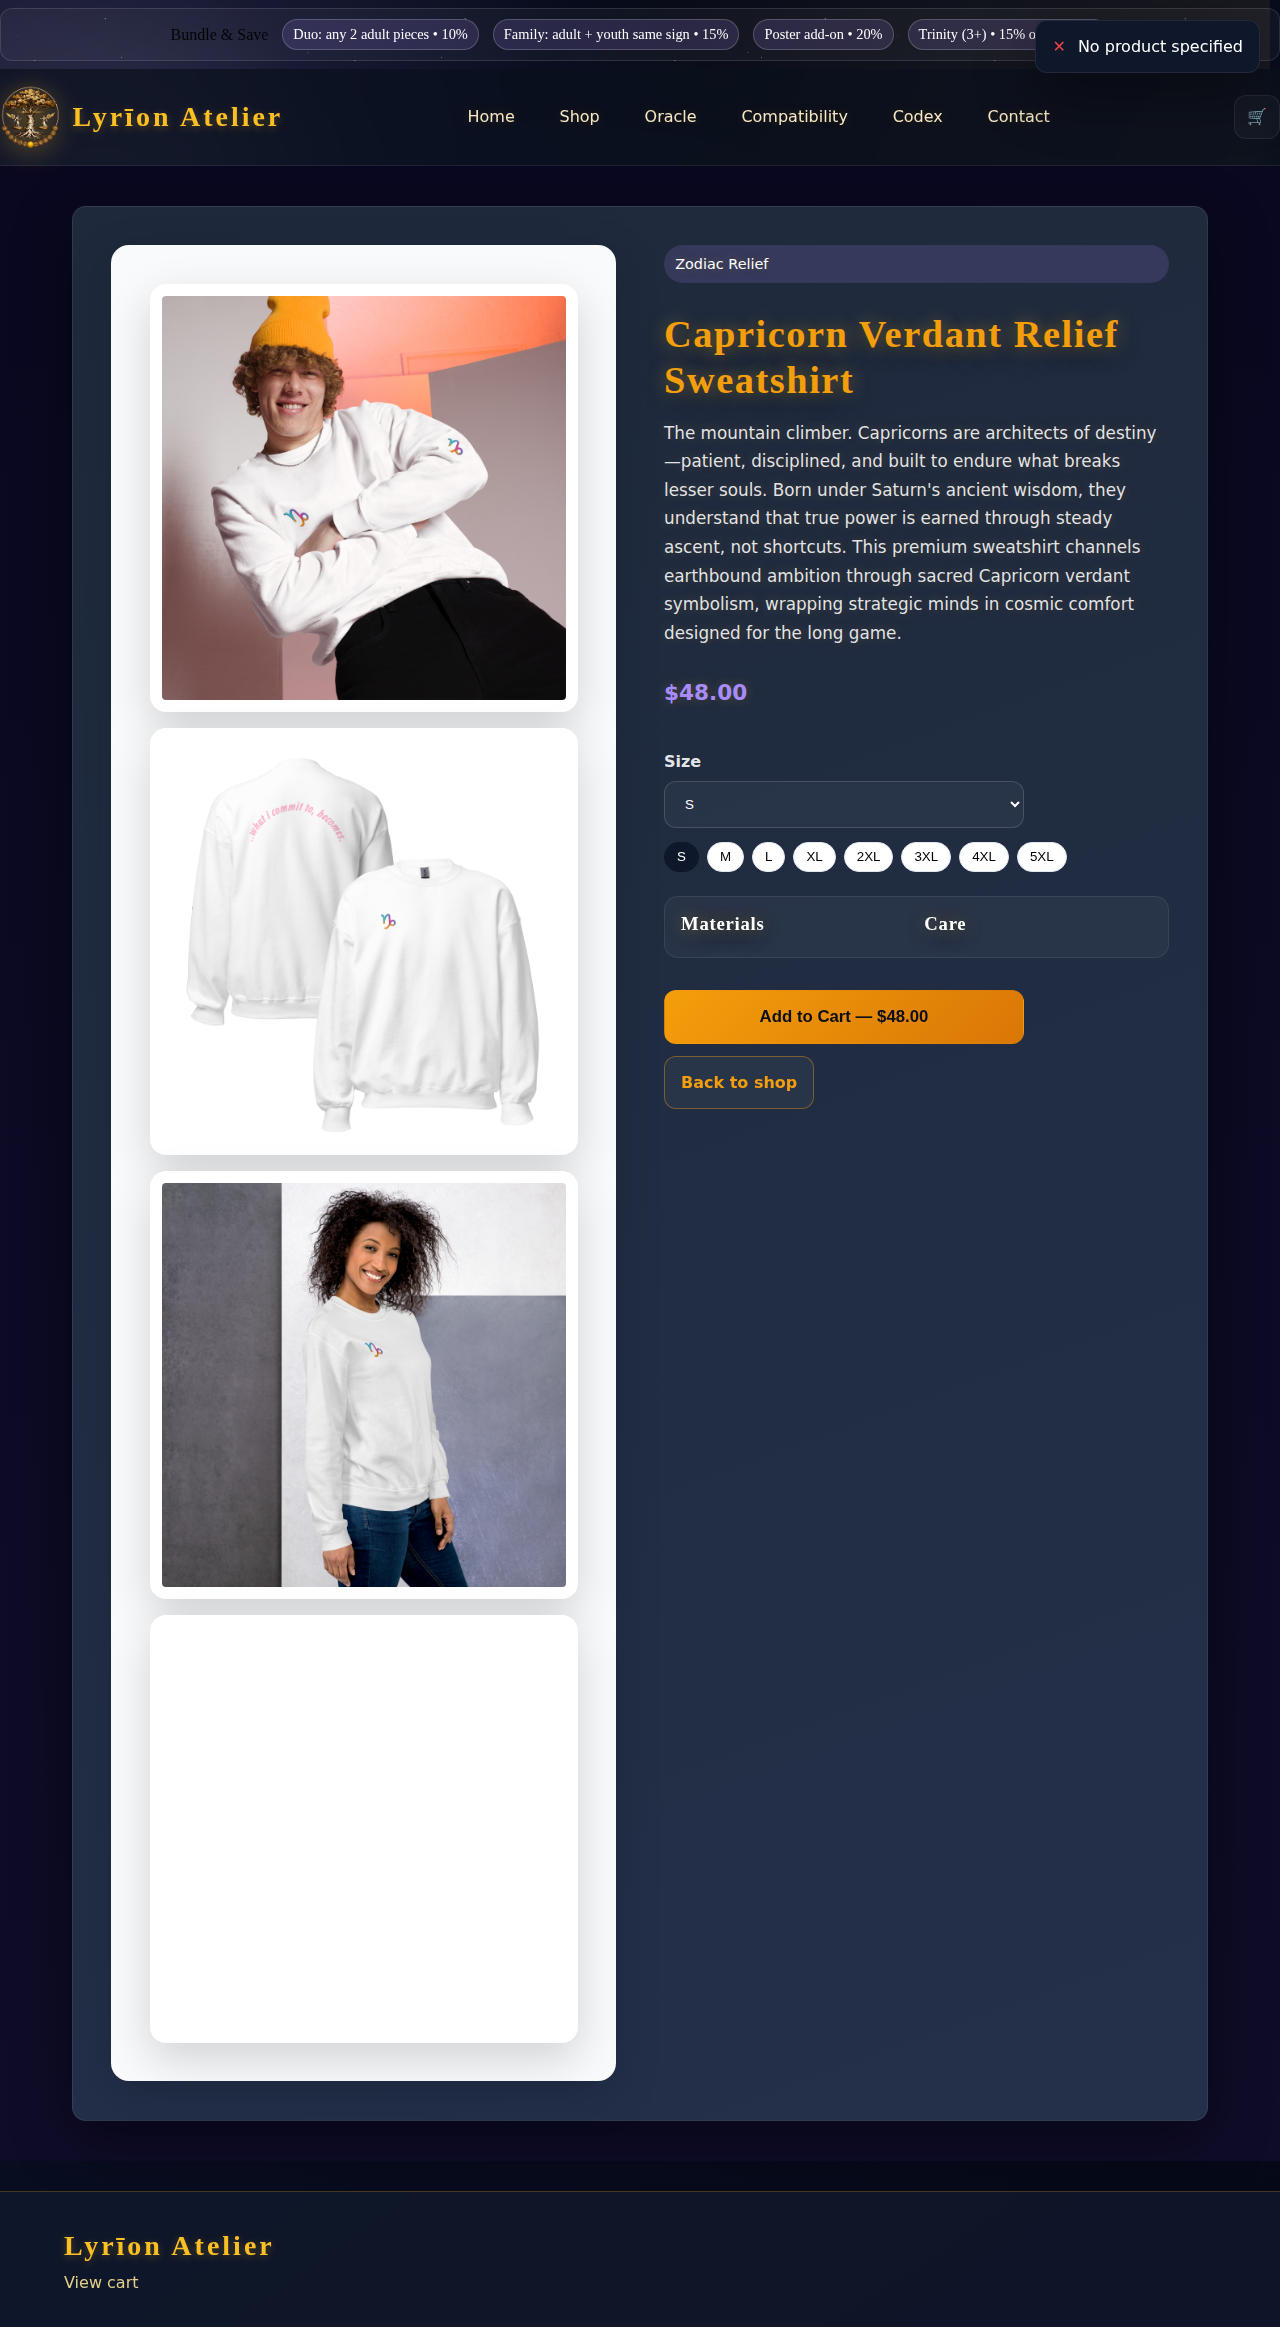
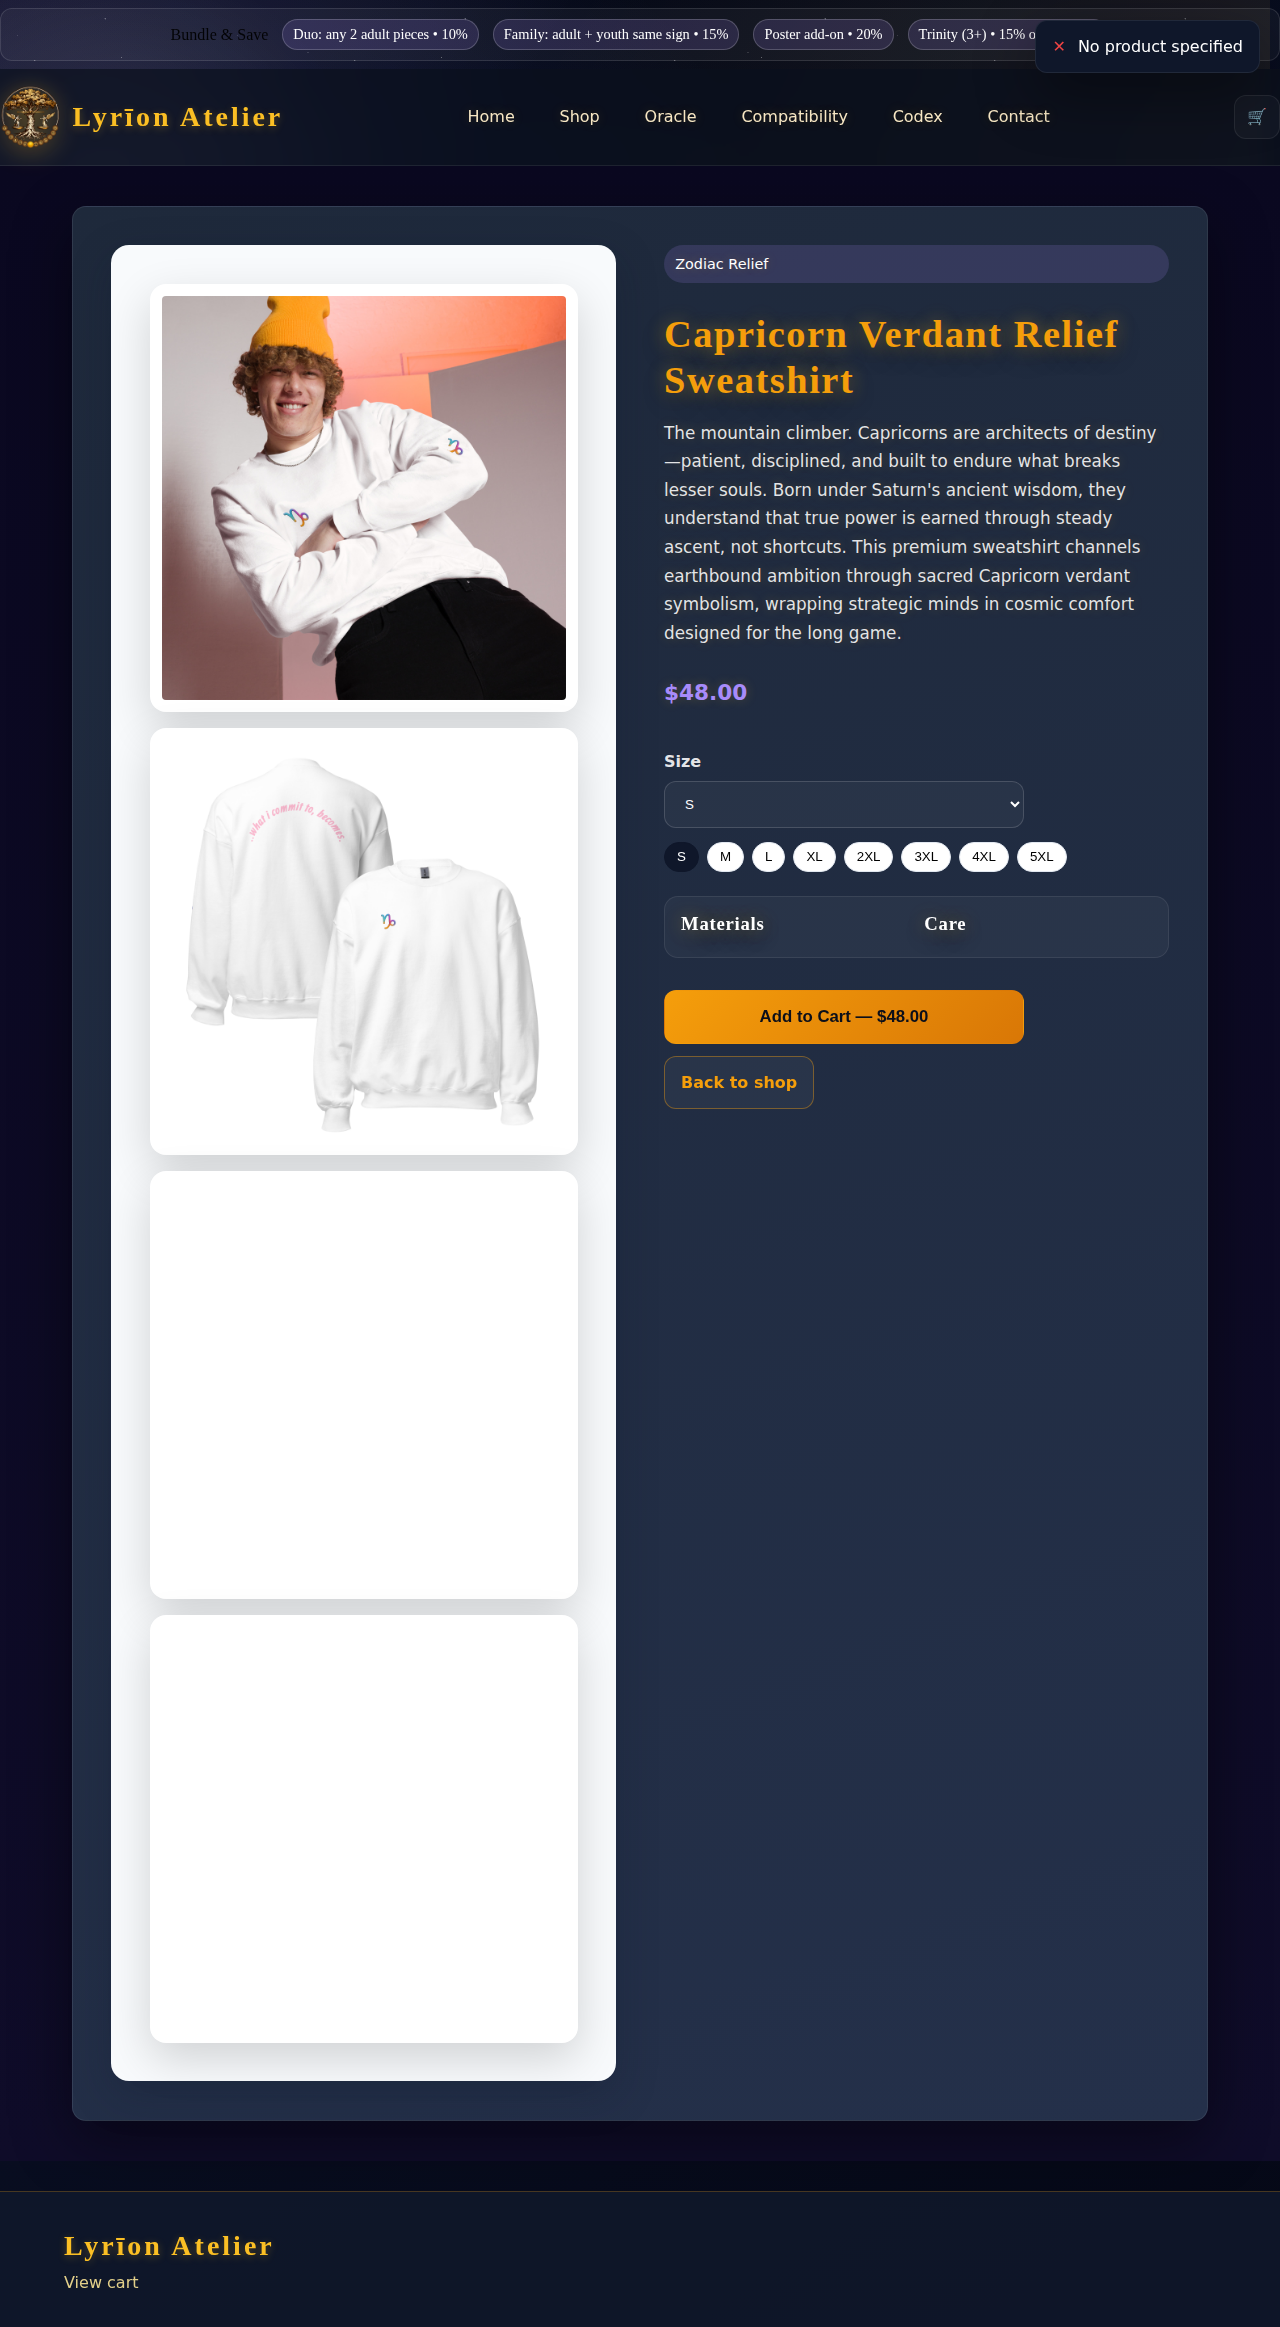
chore: refine gallery padding logic

Changed region(s): [[0.125, 0.4951, 0.4688, 0.6807], [0.4062, 0.4951, 0.4375, 0.526]]

diff --git a/js/shop-page.js b/js/shop-page.js
@@ -246,7 +246,8 @@ import { formatPrice, currencySymbol } from './price-utils.js';
       const base = normalizedImages.length ? normalizedImages : (image ? [image] : []);
       const ready = base.filter(Boolean).map(fullRes);
       if (!ready.length) ready.push(FALLBACK);
-      while (ready.length < 4) ready.push(ready[ready.length % ready.length] || FALLBACK);
+      const seed = ready[0] || FALLBACK;
+      while (ready.length < 4) ready.push(seed);
       return ready;
     })();
     return {
@@ -372,7 +373,8 @@ import { formatPrice, currencySymbol } from './price-utils.js';
       const seeds = Array.isArray(p.images) && p.images.length ? p.images : [resolvedImage || FALLBACK];
       const normalized = seeds.filter(Boolean).map(fullRes);
       if (!normalized.length) normalized.push(FALLBACK);
-      while (normalized.length < 4) normalized.push(normalized[normalized.length % normalized.length] || FALLBACK);
+      const seed = normalized[0] || FALLBACK;
+      while (normalized.length < 4) normalized.push(seed);
       return normalized.slice(0, 4);
     })();
     const soldOut = (p?.meta?.soldOut ?? p?.soldOut) === true;

diff --git a/css/style.css b/css/style.css
@@ -686,7 +686,6 @@ p {
 .product-card .media,
 .product-card__media{aspect-ratio:1/1;display:block;overflow:hidden;background:rgba(255,255,255,0.03)}
 .product-card__media-grid{display:grid;grid-template-columns:repeat(2,1fr);grid-auto-rows:1fr;gap:6px;height:100%}
-.product-card__media-grid img{width:100%;height:100%;object-fit:cover}
 .product-card__media img{width:100%;height:100%;object-fit:cover;display:block;opacity:0;transition:opacity .3s ease}
 .product-card.media-ready .product-card__media img{opacity:1}
 .product-card__body{padding:14px}

diff --git a/js/product-detail.js b/js/product-detail.js
@@ -122,9 +122,9 @@ function renderImages(images = [], productTitle = 'Product') {
   const normalized = Array.isArray(images) ? images.filter(Boolean).map(fullRes) : [];
   const base = normalized.length ? normalized : [FALLBACK_IMAGE];
   const sources = [...base];
+  const seed = sources[0] || FALLBACK_IMAGE;
   while (sources.length < 4) {
-    const next = base[sources.length % base.length] || FALLBACK_IMAGE;
-    sources.push(fullRes(next));
+    sources.push(seed);
   }
   sources.forEach((src, idx) => {
     if (!src) return;

diff --git a/assets/index.js b/assets/index.js
@@ -84,7 +84,8 @@ function renderFeaturedProducts() {
     }
     const normalized = seeds.filter(Boolean).map((src) => String(src).replace('_thumb', ''));
     if (!normalized.length) normalized.push('/assets/catalog/placeholder.webp');
-    while (normalized.length < 4) normalized.push(normalized[normalized.length % normalized.length] || normalized[0]);
+    const seed = normalized[0] || '/assets/catalog/placeholder.webp';
+    while (normalized.length < 4) normalized.push(seed);
     return normalized.slice(0, 4);
   };
 

diff --git a/js/shop-grid.js b/js/shop-grid.js
@@ -60,7 +60,8 @@ function renderCard(product) {
     if (mapped) seeds.push(mapped);
     const normalized = seeds.filter(Boolean);
     if (!normalized.length) normalized.push(FALLBACK);
-    while (normalized.length < 4) normalized.push(normalized[normalized.length % normalized.length] || FALLBACK);
+    const seed = normalized[0] || FALLBACK;
+    while (normalized.length < 4) normalized.push(seed);
     return normalized.slice(0, 4);
   })();
 

diff --git a/public/css/shop-fixes.css b/public/css/shop-fixes.css
@@ -1,7 +1,5 @@
 /* keep product cards tidy even if images 404 */
 .product-card img { display:block; width:100%; height:auto; }
-.product-card__media-grid { display:grid; grid-template-columns:repeat(2,1fr); grid-auto-rows:1fr; gap:6px; height:100%; }
-.product-card__media-grid img { height:100%; width:100%; object-fit:cover; }
 
 /* nuke any legacy stray thumbnail containers */
 .thumb-strip, .thumb, .stray-thumb { display:none !important; }

diff --git a/css/shop-fixes.css b/css/shop-fixes.css
@@ -1,7 +1,5 @@
 /* keep product cards tidy even if images 404 */
 .product-card img { display:block; width:100%; height:100%; object-fit:cover; }
-.product-card__media-grid { display:grid; grid-template-columns:repeat(2,1fr); grid-auto-rows:1fr; gap:6px; height:100%; }
-.product-card__media-grid img { height:100%; width:100%; object-fit:cover; }
 
 /* optional: center empty note */
 .shop-empty-note { color: #cfd8ff; text-align:center; }
